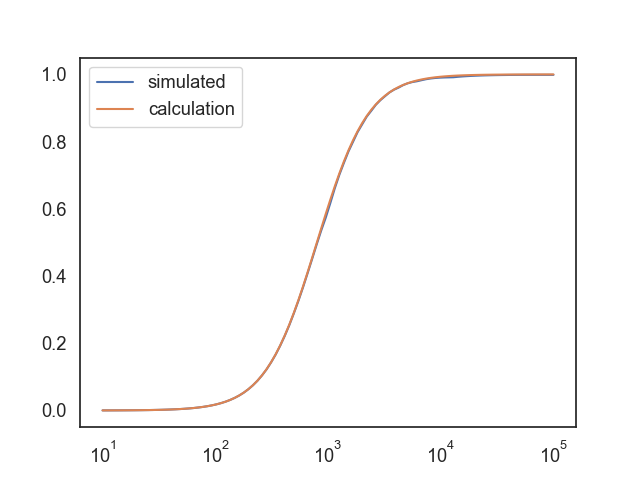
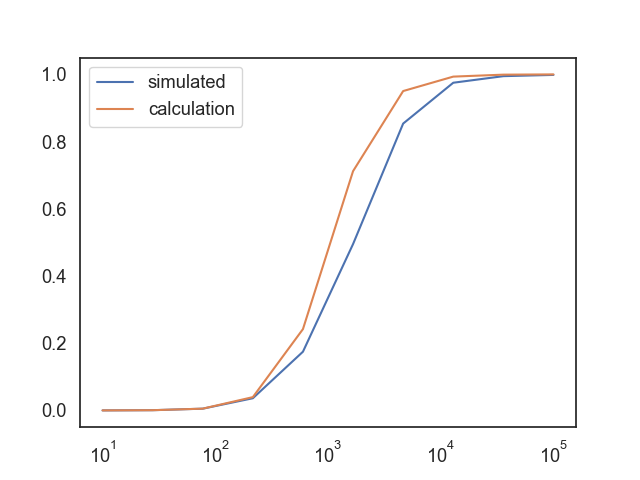
working?

Changed region(s): [[0.3438, 0.1875, 0.6562, 0.8438], [0.625, 0.1562, 0.7812, 0.2188], [0.2812, 0.8438, 0.3438, 0.875]]

diff --git a/HighPassFilterBodePlotWorking.py b/HighPassFilterBodePlotWorking.py
@@ -5,9 +5,9 @@ init = State(Vin=0,
              Vout=0)
 
 params = Params(C1=10e-7, #Capacitor value 1
-         C2=10e-9, #Capacitor value 2
-         R1=300, #Resistor value 1
-         R2=15000) #resistor value 2
+         C2=10e-7, #Capacitor value 2
+         R1=150, #Resistor value 1
+         R2=150) #resistor value 2
 
 
 setsystem = System(f1=1, #10^f1 freq lower bound
@@ -15,18 +15,19 @@ setsystem = System(f1=1, #10^f1 freq lower bound
                     A=0.5, #Amplitude of Vin wave
                     init=init,
                     t0=0,
-                    freqs = 100, #number of frequencies to sweep through
+                    freqs = 10, #number of frequencies to sweep through
                     stepres = 200,
-                    numwavels = 4, #num of wavelengths simulated per freq)
-                    params = params)
+                    numwavels = 4) #num of wavelengths simulated per freq)
 
-def make_system(params):
-    system = System(params)
+def make_system(params, setsystem):
+    setsystem.set(params = params)
+    system = setsystem
     return system
 
 def slope_func(init, t, system):
     unpack(system)
-    unpack(params)
+    C1, C2, R1, R2 = system.params
+
     vin, vm, vout = init
 
     dvin = 2 * np.pi * A * f * np.cos(2*np.pi*f*t)
@@ -48,10 +49,12 @@ def run_bode(system):
         tail = int(details.nfev/(2*np.pi*numwavels))
         amplitudeM = results.Vout.tail(tail).ptp()
         Re[f] = amplitudeM
+    print('bode run')
     return Re
 
 def run_calc(system):
     unpack(system)
+    C1, C2, R1, R2 = system.params
 
     farray = np.logspace(f1, f2, freqs)
     C = TimeSeries()
@@ -65,8 +68,8 @@ def run_calc(system):
 
     return C
 
-def error_func(params):
-    system = make_system(params)
+def error_func(params, setsystem):
+    system = make_system(params, setsystem)
 
     results = run_bode(system)
     data = run_calc(system)
@@ -74,17 +77,21 @@ def error_func(params):
     errors = results - data
     return errors
 
-error_func(params)
+best_params, fit_details = fit_leastsq(error_func, params, setsystem)
+
+print(best_params)
+#error_func(params)
 
 #best_params, fit
+
 """
-system = make_system(params)
-results = run_bode()
+system = make_system(params, setsystem)
+results = run_bode(system)
 fig = plt.figure()
 ax = fig.add_subplot(111)
 ax.set_xscale('log')
 lns1 = ax.plot(results, label = 'simulated')
-lns2 = ax.plot(run_calc(), label = 'calculation')
+lns2 = ax.plot(run_calc(system), label = 'calculation')
 lns = lns1+lns2
 labs = [l.get_label() for l in lns]
 ax.legend(lns, labs, loc = 'best')
